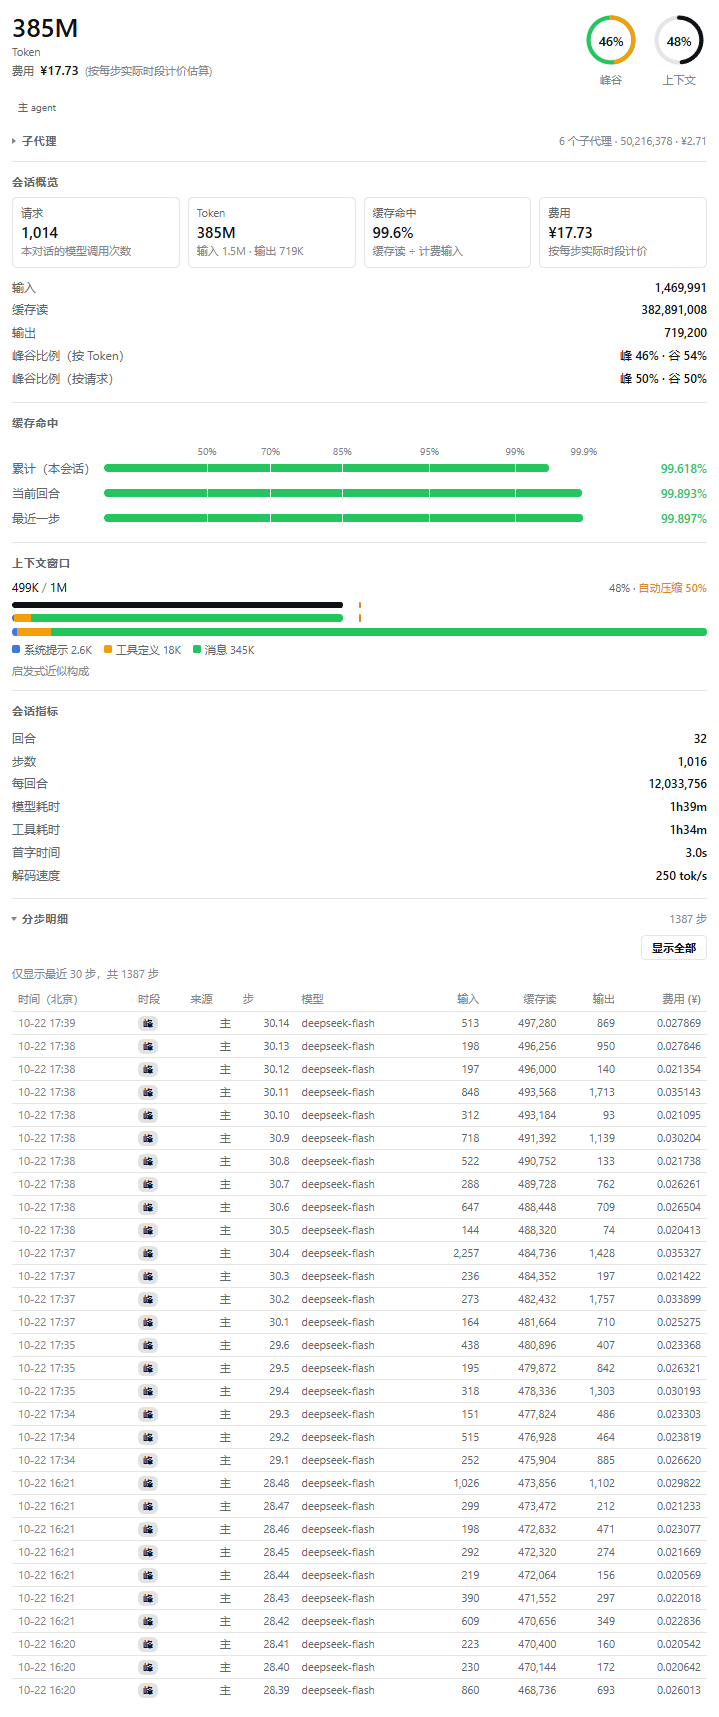
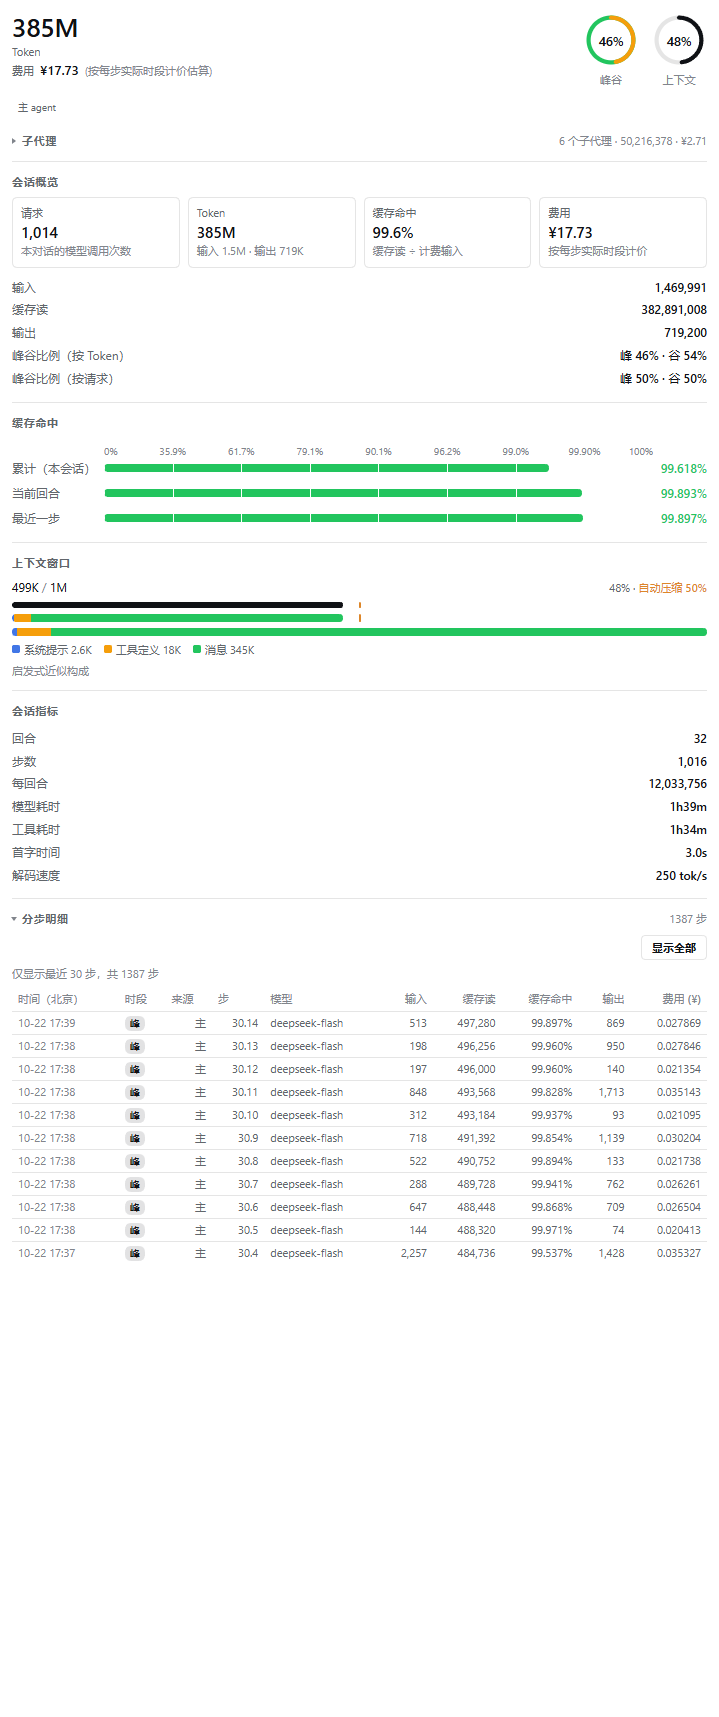
feat: show each request's cache-hit rate in the step ledger
The request table gains a cache-hit column between cache reads and output. It
reads cache reads over billed input, the same ratio the cache-hit section shows,
at three decimals, and prints an em dash for a request that billed no prompt
tokens.

diff --git a/dist/client.js b/dist/client.js
@@ -1,4 +1,4 @@
-/* dsh-usage-insights v0.16.0 — generated by scripts/build.mjs; do not edit. */
+/* dsh-usage-insights v0.17.0 — generated by scripts/build.mjs; do not edit. */
 window.__ModuleLoader__.load({
   id: "dsh-usage-insights",
   factory(require) {
@@ -79,6 +79,7 @@ var en = {
   "steps.model": "Model",
   "steps.input": "In",
   "steps.cacheRead": "Cache",
+  "steps.cacheHit": "Hit",
   "steps.output": "Out",
   "steps.cost": "Cost",
   "steps.peak": "Peak",
@@ -208,6 +209,7 @@ var zh = {
   "steps.model": "\u6A21\u578B",
   "steps.input": "\u8F93\u5165",
   "steps.cacheRead": "\u7F13\u5B58\u8BFB",
+  "steps.cacheHit": "\u7F13\u5B58\u547D\u4E2D",
   "steps.output": "\u8F93\u51FA",
   "steps.cost": "\u8D39\u7528",
   "steps.peak": "\u5CF0",
@@ -2409,6 +2411,10 @@ function DailyBars(props) {
     ] })
   ] });
 }
+function stepCacheText(step) {
+  const billed = step.uncachedInputTokens + step.cacheReadTokens + step.cacheWriteTokens;
+  return billed > 0 ? formatPercentFixed(step.cacheReadTokens / billed, 3) : "\u2014";
+}
 function StepTable(props) {
   const rows = props.steps;
   const currency = rows.find((step) => step.cost !== null)?.cost?.currency ?? null;
@@ -2421,6 +2427,7 @@ function StepTable(props) {
       /* @__PURE__ */ (0, import_jsx_runtime2.jsx)("th", { children: props.t("steps.model") }),
       /* @__PURE__ */ (0, import_jsx_runtime2.jsx)("th", { className: "dsu-num", children: props.t("steps.input") }),
       /* @__PURE__ */ (0, import_jsx_runtime2.jsx)("th", { className: "dsu-num", children: props.t("steps.cacheRead") }),
+      /* @__PURE__ */ (0, import_jsx_runtime2.jsx)("th", { className: "dsu-num", children: props.t("steps.cacheHit") }),
       /* @__PURE__ */ (0, import_jsx_runtime2.jsx)("th", { className: "dsu-num", children: props.t("steps.output") }),
       /* @__PURE__ */ (0, import_jsx_runtime2.jsx)("th", { className: "dsu-num", children: currency === null ? props.t("steps.cost") : `${props.t("steps.cost")} (${currencySymbol(currency)})` })
     ] }) }),
@@ -2436,6 +2443,7 @@ function StepTable(props) {
       /* @__PURE__ */ (0, import_jsx_runtime2.jsx)("td", { className: "dsu-step-model", children: step.model === "" ? "\u2014" : step.model }),
       /* @__PURE__ */ (0, import_jsx_runtime2.jsx)("td", { className: "dsu-num", children: formatTokenCount(step.uncachedInputTokens) }),
       /* @__PURE__ */ (0, import_jsx_runtime2.jsx)("td", { className: "dsu-num", children: formatTokenCount(step.cacheReadTokens) }),
+      /* @__PURE__ */ (0, import_jsx_runtime2.jsx)("td", { className: "dsu-num", children: stepCacheText(step) }),
       /* @__PURE__ */ (0, import_jsx_runtime2.jsx)("td", { className: "dsu-num", children: formatTokenCount(step.outputTokens) }),
       /* @__PURE__ */ (0, import_jsx_runtime2.jsx)("td", { className: "dsu-num", children: step.cost === null ? "\u2014" : formatAmountFixed(step.cost.amountMicros, 6) })
     ] }, `${String(step.turn)}-${String(step.step)}-${String(step.at)}`)) })

diff --git a/src/client/components.tsx b/src/client/components.tsx
@@ -387,6 +387,21 @@ export function DailyBars(props: { days: readonly DayTotal[]; t: Translate }): J
 }
 
 /**
+ * Cache-hit rate of one request.
+ *
+ * The rate reads cache reads over billed input, the same ratio the cache-hit
+ * section shows, and keeps three decimals so neighbouring requests stay
+ * comparable.
+ *
+ * @param step - one request row.
+ * @returns e.g. `99.618%`, or an em dash when the request billed no input.
+ */
+function stepCacheText(step: StepDetailView): string {
+  const billed = step.uncachedInputTokens + step.cacheReadTokens + step.cacheWriteTokens
+  return billed > 0 ? formatPercentFixed(step.cacheReadTokens / billed, 3) : '—'
+}
+
+/**
  * One row per billed request, newest first.
  *
  * Times are Beijing time because the price table's peak/off-peak windows are
@@ -414,6 +429,7 @@ export function StepTable(props: { steps: readonly StepDetailView[]; t: Translat
             <th>{props.t('steps.model')}</th>
             <th className="dsu-num">{props.t('steps.input')}</th>
             <th className="dsu-num">{props.t('steps.cacheRead')}</th>
+            <th className="dsu-num">{props.t('steps.cacheHit')}</th>
             <th className="dsu-num">{props.t('steps.output')}</th>
             <th className="dsu-num">
               {currency === null
@@ -438,6 +454,7 @@ export function StepTable(props: { steps: readonly StepDetailView[]; t: Translat
               <td className="dsu-step-model">{step.model === '' ? '—' : step.model}</td>
               <td className="dsu-num">{formatTokenCount(step.uncachedInputTokens)}</td>
               <td className="dsu-num">{formatTokenCount(step.cacheReadTokens)}</td>
+              <td className="dsu-num">{stepCacheText(step)}</td>
               <td className="dsu-num">{formatTokenCount(step.outputTokens)}</td>
               <td className="dsu-num">
                 {step.cost === null ? '—' : formatAmountFixed(step.cost.amountMicros, 6)}

diff --git a/src/client/locales/zh.ts b/src/client/locales/zh.ts
@@ -50,6 +50,7 @@ export const zh = {
   'steps.model': '模型',
   'steps.input': '输入',
   'steps.cacheRead': '缓存读',
+  'steps.cacheHit': '缓存命中',
   'steps.output': '输出',
   'steps.cost': '费用',
   'steps.peak': '峰',

diff --git a/src/client/locales/en.ts b/src/client/locales/en.ts
@@ -48,6 +48,7 @@ export const en = {
   'steps.model': 'Model',
   'steps.input': 'In',
   'steps.cacheRead': 'Cache',
+  'steps.cacheHit': 'Hit',
   'steps.output': 'Out',
   'steps.cost': 'Cost',
   'steps.peak': 'Peak',

diff --git a/README.md b/README.md
@@ -20,7 +20,7 @@
 - **上下文窗口**：第一行显示已用 / 容量与占用百分比；第二行是按占用比例填充的进度条；第三行是「占用 + 构成」组合条（宽度为占用比例，内部按三色分段）；第四行是整窗构成条；条下是带颜色的图例与各段数值。若 Host 能读到自动压缩阈值，前两条上会画一条琥珀色竖线，第一行标注「自动压缩 50%」。
 - **峰谷圈图**：上下文圈图左侧另有一个圈图，绿色轨道表示空闲、橙色弧线表示高峰，中心显示高峰占比（按 Token）。
 - **会话指标**：回合数、步数、每回合 Token、模型耗时、工具耗时、首字时间、解码速度。
-- **分步明细**（默认折叠，点击展开）：把主 agent 与直接子代理的请求合并成一条时间线（默认显示最近 30 条，标注总步数），每行包含北京时间、峰谷时段、来源（`主` 或子代理编号 `#1`）、`回合.步`、模型、输入 / 缓存读 / 输出、该步费用（表头标注货币单位，单元格固定六位小数）。展开后可用「显示全部」开关查看 Host 保留窗口（默认每个会话最近 200 步）内的所有请求。
+- **分步明细**（默认折叠，点击展开）：把主 agent 与直接子代理的请求合并成一条时间线（默认显示最近 30 条，标注总步数），每行包含北京时间、峰谷时段、来源（`主` 或子代理编号 `#1`）、`回合.步`、模型、输入 / 缓存读 / 该步缓存命中率 / 输出、该步费用（表头标注货币单位，单元格固定六位小数）。缓存命中率按该步的「缓存读 ÷ 计费输入」计算，与上方缓存命中栏同口径并固定三位小数（如 `99.618%`）；该步没有计费输入时显示 `—`。展开后可用「显示全部」开关查看 Host 保留窗口（默认每个会话最近 200 步）内的所有请求。
 - **精确峰谷计价**：每个请求按它实际发起时刻所属的时段计价，而不是对整个会话套用单一价格。
 - **agent 身份与子代理明细**：面板头部标注该对话是「主 agent」还是「子 agent」；子 agent 显示父对话名称；主 agent 显示直接子代理的数量、合计 Token 与费用，并可展开查看每个子代理的请求数、Token、缓存命中率与费用（按发起顺序编号）。
 - 打开主会话的用量页时，缺少峰谷聚合的子代理会自动补读一次（最多 20 个），让明细从区间估算变为按实际时段计价。

diff --git a/README.EN.md b/README.EN.md
@@ -49,9 +49,12 @@ The plugin adds two right-Sidebar pages.
   its direct subagents' requests merged into one newest-first ledger (latest 30 rows by
   default, with the delegation-wide total). Each row carries Beijing time, peak/off-peak band,
   the source (`Root`, or the subagent's number `#1`), `turn.step`, model, input / cache read /
-  output, and that request's cost (the header names the currency; cells keep six decimals). A
-  "Show all" switch reveals every request inside the Host's retained window (latest 200 per
-  conversation by default).
+  that request's cache-hit rate / output, and that request's cost (the header names the
+  currency; cells keep six decimals). The hit rate is that request's cache reads over its
+  billed input, the same ratio the cache-hit section shows, kept at three decimals (for
+  example `99.618%`); a request that billed no prompt tokens shows `—`. A "Show all" switch
+  reveals every request inside the Host's retained window (latest 200 per conversation by
+  default).
 - **Exact band pricing**: each request is priced in the band its own start fell in, instead
   of applying one price to the whole conversation.
 - **Agent identity and subagent detail**: the header says whether the conversation is a root
